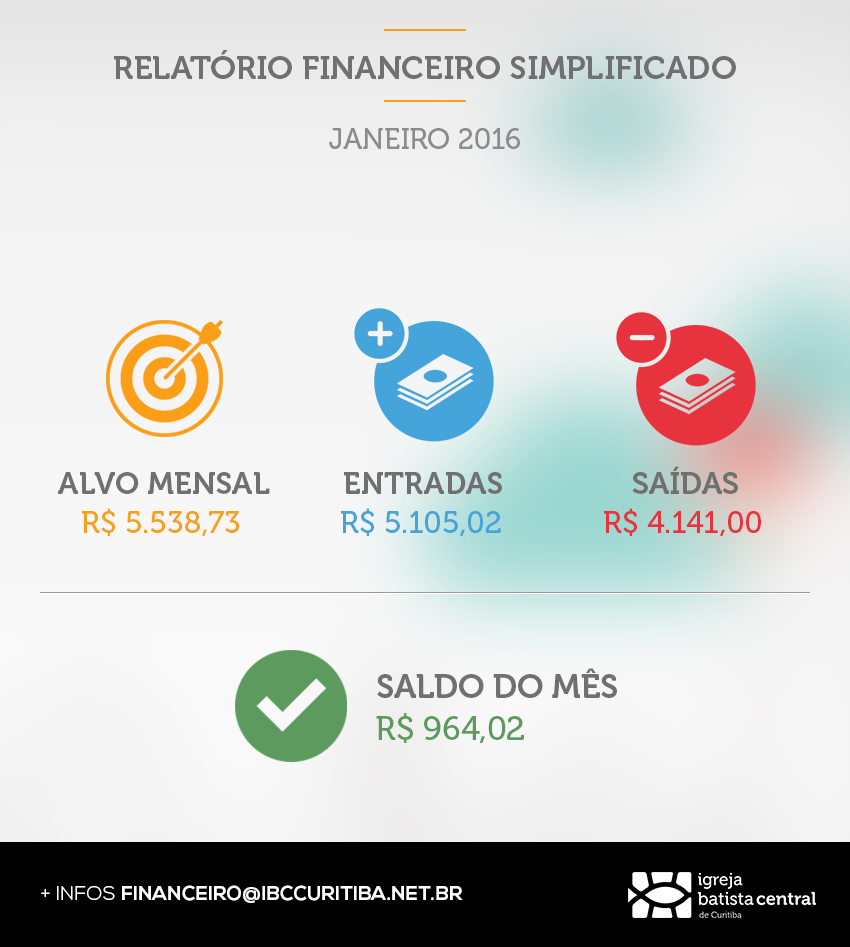
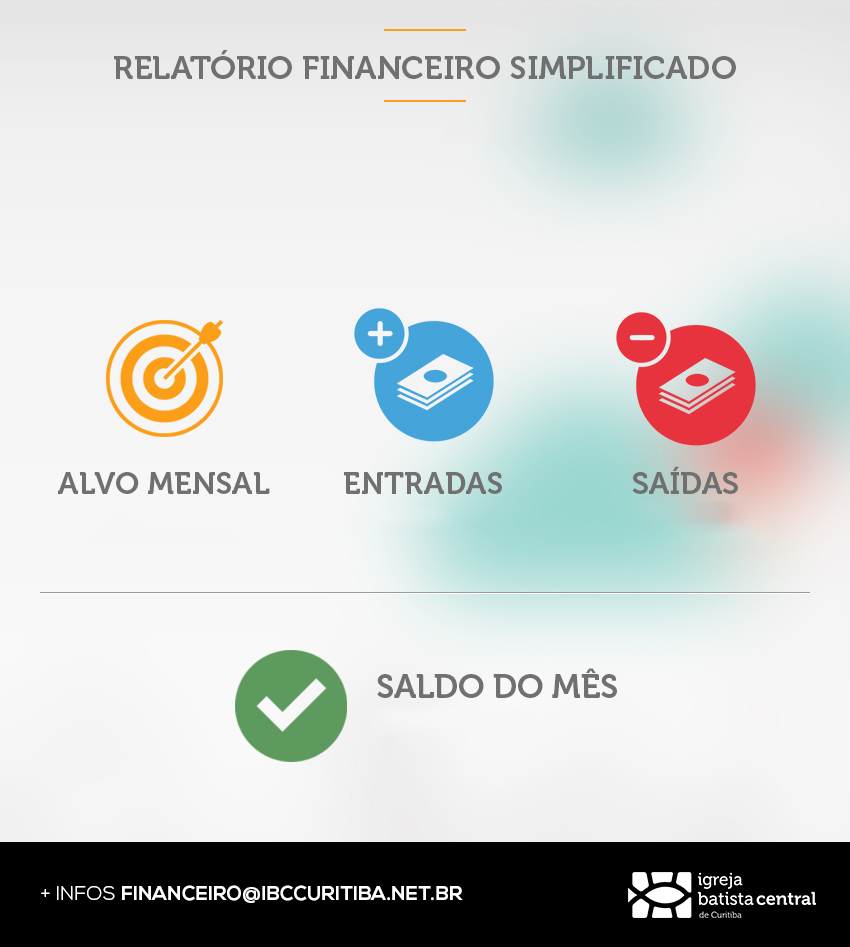
Ajustes finais

diff --git a/app.js b/app.js
@@ -28,6 +28,7 @@ function init() {
 	    	entradas : '5.105,02',
 	    	saidas : '4.141,00',
 	    	saldo : '964,02',
+	    	positivo : true,
 	    }
 
 		drawAll(obj);
@@ -36,35 +37,60 @@ function init() {
 
 	img1.src = 'img/bg-relatorio.jpg';
 
+	var img2 = new Image();
+
+	img2.onload = function () {
+		ctx.drawImage(img2, 236, 650);
+	}
+
 	function $(ele) {
 		return document.getElementById(ele);
 	}
 
+	$('positivo').checked = true;
+	
 	function drawMonth(obj) {
+		ctx.fillStyle = '#8c8c8c';
 		ctx.font = "30px 'Museo'";
 		ctx.textAlign = "center";
 		ctx.fillText(obj.mes+' '+obj.ano, (canvas.width / 2), 150);
 	}
 
 	function drawAlvo(obj) {
+		ctx.fillStyle = '#f69f1e';
 		ctx.font = "32px 'Museo'";
 		ctx.textAlign = "left";
 		ctx.fillText('R$ ' + obj.alvo, 80, 535);
 	}
 
 	function drawEntradas(obj) {
+		ctx.fillStyle = '#45a4da';
 		ctx.font = "32px 'Museo'";
 		ctx.textAlign = "left";
 		ctx.fillText('R$ ' + obj.entradas, 340, 535);
 	}
 
 	function drawSaidas(obj) {
+		ctx.fillStyle = '#e6323d';
 		ctx.font = "32px 'Museo'";
 		ctx.textAlign = "left";
 		ctx.fillText('R$ ' + obj.saidas, 603, 535);
 	}
 
 	function drawSaldo(obj) {
+		var cor;
+
+		if (obj.positivo) {
+			img2.src = 'img/positivo.png';
+			cor = '#5e995f';
+		} else {
+			img2.src = 'img/negativo.png';
+			cor = '#e7333e';
+		}
+		
+		ctx.drawImage(img2, 236, 650);
+
+		ctx.fillStyle = cor;
 		ctx.font = "33px 'Museo'";
 		ctx.textAlign = "left";
 		ctx.fillText('R$ ' + obj.saldo, 377, 738);
@@ -123,6 +149,20 @@ function init() {
 		reset();
 		drawAll(obj);
 	});
+
+	$('positivo').addEventListener('change', function() {
+		
+		if ( this.checked ) {
+			obj.positivo = true;
+		} else {
+			obj.positivo = false;
+		}
+
+		reset();
+		drawAll(obj);
+
+	});
+	
 }
 
 init();

diff --git a/index.html b/index.html
@@ -27,6 +27,7 @@
 					<input class="form-control" type="text" placeholder="Ano" id="ano">
 				</div>
 			</div>
+			<div class="clearfix visible-md visible-xs visible-sm"></div>
 			<div class="col-md-6 col-sm-6 col-xs-12 form-group">
 				<div class="controls">
 					<input class="form-control" type="text" placeholder="Alvo Mensal" id="alvo">
@@ -42,11 +43,22 @@
 					<input class="form-control" type="text" placeholder="Saídas" id="saidas">
 				</div>
 			</div>
+			<div class="clearfix visible-md visible-xs visible-sm"></div>
 			<div class="col-md-6 col-sm-6 col-xs-12 form-group">
 				<div class="controls">
 					<input class="form-control" type="text" placeholder="Saldo do Mês" id="saldo">
 				</div>
 			</div>
+			<div class="clearfix visible-md visible-xs visible-sm"></div>
+			<div class="col-md-12 form-group">
+				<div class="controls">
+					<label>
+						<span>Saldo positivo (?)</span>
+						<input type="checkbox" id="positivo" value="SIM">
+					</label>
+				</div>
+			</div>
+			<div class="clearfix visible-md visible-xs visible-sm"></div>
 			<div class="col-md-12 form-group">
 				<a href="#" id="download">Download</a>
 			</div>
